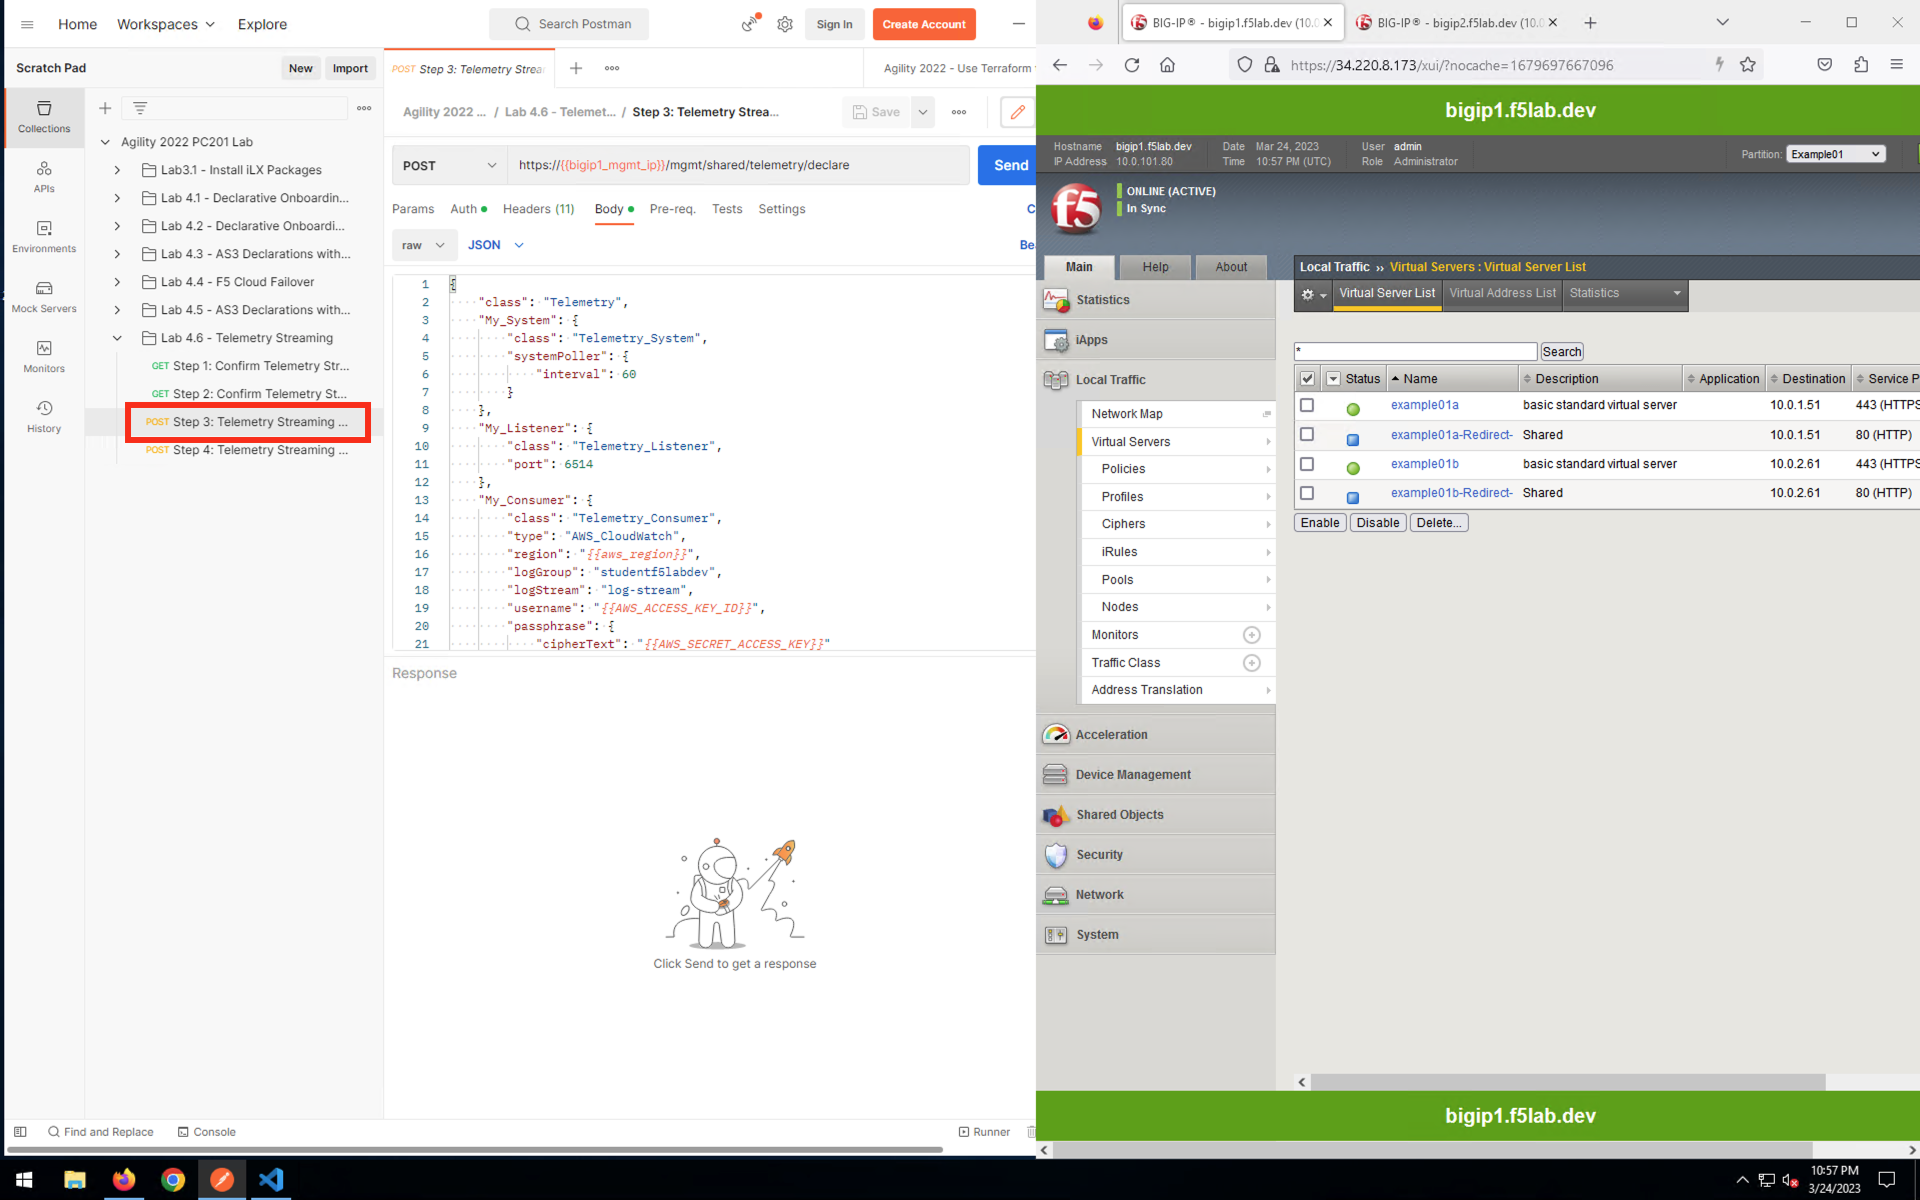
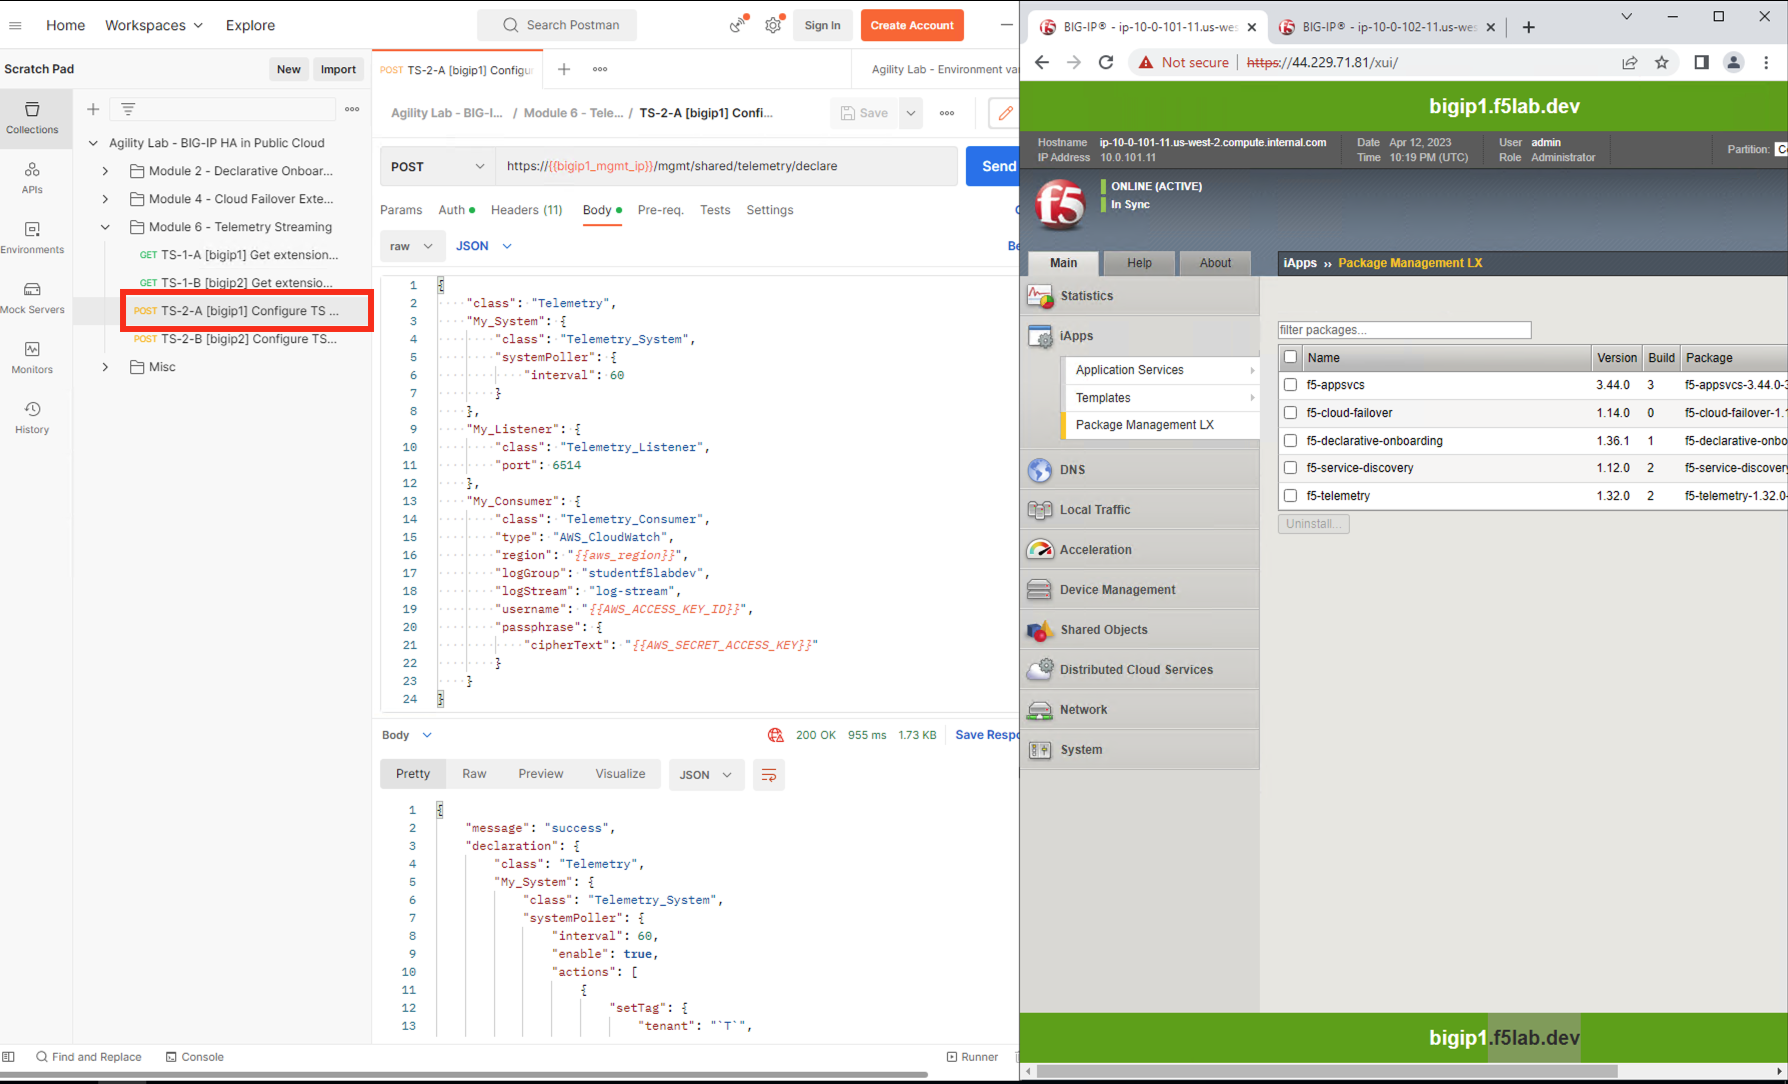
new screen shots for module 6 lab5.srt

diff --git a/docs/class13/module6/lab5.rst b/docs/class13/module6/lab5.rst
@@ -1,7 +1,7 @@
 Deploy Telemetry Streaming Configuration
 ================================================================================
 
-From Postman, “Lab 4.6 - Telemetry Streaming” => “Step 3: Telemetry Streaming AWS - BIGIP1” => [Send].
+From Postman, naviagte to “Module 6 - Telemetry Streaming” > **“TS-2-A [bigip1] Configure TS for CloudWatch”** > and click [Send].
 
 .. image:: ./images/2023_4_postman_telemetry_streaming_body_bigip1.png
 	   :scale: 50%
@@ -11,7 +11,7 @@ From Postman, “Lab 4.6 - Telemetry Streaming” => “Step 3: Telemetry Stream
 .. image:: ./images/2023_5_postman_telemetry_streaming_completed_bigip1.png
 	   :scale: 50%
 
-Do the same for Big-IP2. From Postman, “Lab 4.6 - Telemetry Streaming” => “Step 4: Telemetry Streaming AWS - BIGIP2” => [Send].
+Do the same for Big-IP2. From Postman, navigate to “Module 6 - Telemetry Streaming” > **“TS-2-B [bigip2] Configure TS for CloudWatch”** > [Send].
 
 "Status: 200 OK" response signals that the F5 Telemetry Streaming Extension (BIG-IP TS) declaration successfully completed processing on Big-IP2.
 
